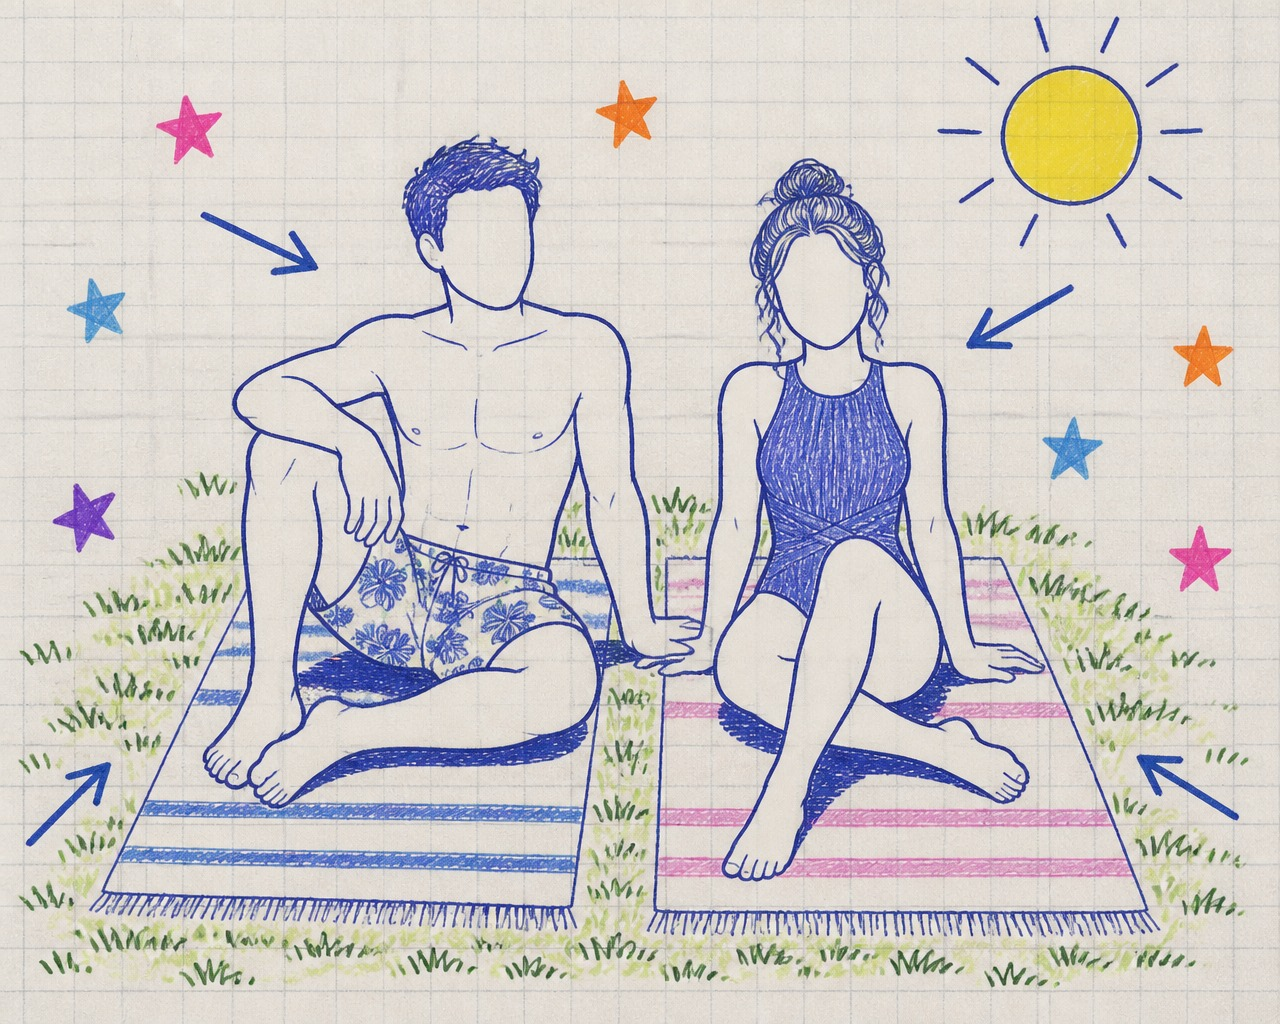
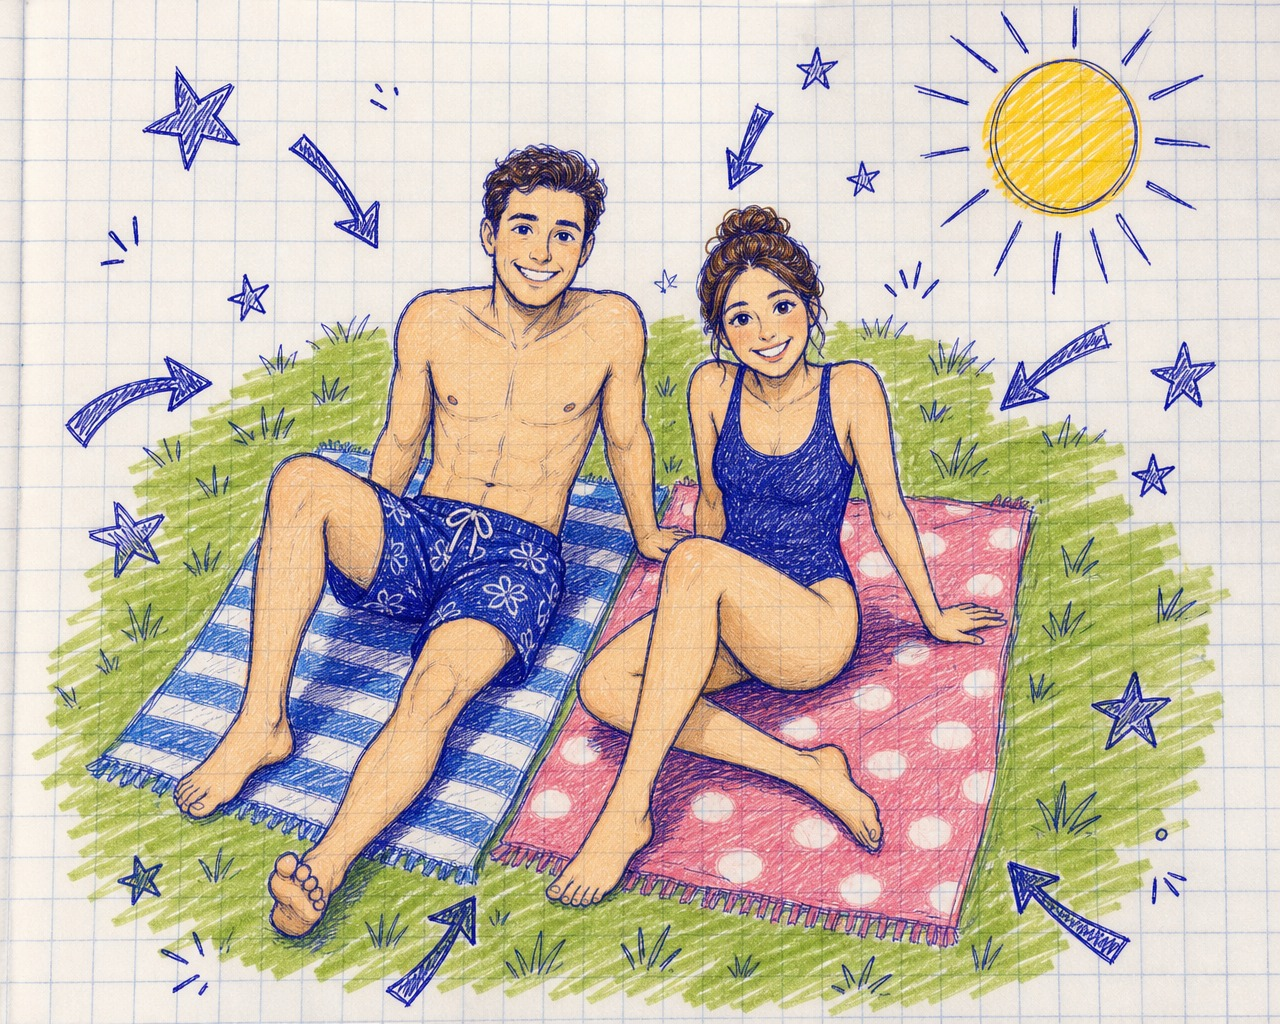
Schulprojekt Erklärvideo J: alle Figuren mit Gesicht (vier Bilder neu, Nutzernotiz), Vergleichsseite aktualisiert
Claude-Session: https://claude.ai/code/session_01LHRCLow2W6zBv92mtdrfKt

diff --git a/themen/schulprojekt-vitamin-d/erklaervideo/vorschau/index.html b/themen/schulprojekt-vitamin-d/erklaervideo/vorschau/index.html
@@ -37,49 +37,49 @@
 </style>
 <main>
   <h1>Vitamin D · Erklärvideo in acht Stilen · Vorschau</h1>
-  <p class="aufgabe"><b>Deine Aufgabe:</b> Neue Fassung mit geändertem Text, alle acht Stile. Oben deine Favoriten G und I. Bei deinem Favoriten „passt“, bei Fehlern „ändern“ mit Notiz. Ton kommt beim Antippen von ▶; nichts wird heruntergeladen.</p>
-  <article class="video" id="v1" data-id="v_b9dfe25a5a" data-titel="G  Aquarell und Tusche – neuer Text">
+  <p class="aufgabe"><b>Deine Aufgabe:</b> Oben J mit Gesichtern (nach deiner Notiz), darunter G und I und die übrigen Stile, alle mit neuem Text. Beim Favoriten „passt“, sonst „ändern“ mit Notiz. Ton kommt beim Antippen von ▶; nichts wird heruntergeladen.</p>
+  <article class="video" id="v1" data-id="v_028900bb2c" data-titel="J  Skizze im Schulheft – jetzt alle Figuren mit Gesicht">
+      <div class="kopfzeile"><h2>J  Skizze im Schulheft – jetzt alle Figuren mit Gesicht</h2><span class="marke pruefen">zu prüfen</span></div>
+      <p class="stand">Stand 05.11., 15:05 · 14.0 MB</p>
+      <video controls playsinline preload="metadata" poster="videos/v_028900bb2c.jpg" src="videos/v_028900bb2c.mp4"></video>
+      <p class="notiz">Nach deiner Notiz „Die Figuren sollten immer ein Gesicht haben“: vier Bilder neu – Sonnenbad (auch die Kachel im Einstieg), Winterstraße (Menschen kommen jetzt auf dich zu), Frau am Fenster (nicht mehr von hinten), Büro am Abend (sitzt aufrecht statt Kopf auf dem Tisch). Text wie bei den anderen Stilen (neu seit 05.11.).</p>
+      <div class="urteil"><button type="button" data-u="passt">✓ passt</button><button type="button" data-u="aendern">ändern</button></div><textarea rows="2" placeholder="Was soll anders werden?" aria-label="Notiz zu J  Skizze im Schulheft – jetzt alle Figuren mit Gesicht"></textarea><div class="zeile"><button type="button" class="senden">An Claude</button><span class="melde" role="status" aria-live="polite"></span></div>
+    </article><article class="video" id="v2" data-id="v_b9dfe25a5a" data-titel="G  Aquarell und Tusche – neuer Text">
       <div class="kopfzeile"><h2>G  Aquarell und Tusche – neuer Text</h2><span class="marke pruefen">zu prüfen</span></div>
       <p class="stand">Stand 05.11., 13:15 · 14.4 MB</p>
       <video controls playsinline preload="metadata" poster="videos/v_b9dfe25a5a.jpg" src="videos/v_b9dfe25a5a.mp4"></video>
       <p class="notiz">Neuer Text (05.11.): Kalzium-Satz eindeutig (0:36), Fisch-Tipp mit Quecksilber-Hinweis (0:51), „fast alle zwanzig Nanogramm, aber nur jeder Vierte zweiunddreißig“ (1:12), Winter „kein Vitamin D“ mit 45 Grad (1:32), Einheiten-Warnung „sonst hältst du einen Mangel fälschlich für einen guten Wert“ (2:14). 5:37, Ton 128 kbit/s direkt aus der Tonspur.</p>
       <div class="urteil"><button type="button" data-u="passt">✓ passt</button><button type="button" data-u="aendern">ändern</button></div><textarea rows="2" placeholder="Was soll anders werden?" aria-label="Notiz zu G  Aquarell und Tusche – neuer Text"></textarea><div class="zeile"><button type="button" class="senden">An Claude</button><span class="melde" role="status" aria-live="polite"></span></div>
-    </article><article class="video" id="v2" data-id="v_c209597929" data-titel="I  3D-Trickfilm – neuer Text">
+    </article><article class="video" id="v3" data-id="v_c209597929" data-titel="I  3D-Trickfilm – neuer Text">
       <div class="kopfzeile"><h2>I  3D-Trickfilm – neuer Text</h2><span class="marke pruefen">zu prüfen</span></div>
       <p class="stand">Stand 05.11., 13:15 · 10.8 MB</p>
       <video controls playsinline preload="metadata" poster="videos/v_c209597929.jpg" src="videos/v_c209597929.mp4"></video>
       <p class="notiz">Neuer Text (05.11.): Kalzium-Satz eindeutig (0:36), Fisch-Tipp mit Quecksilber-Hinweis (0:51), „fast alle zwanzig Nanogramm, aber nur jeder Vierte zweiunddreißig“ (1:12), Winter „kein Vitamin D“ mit 45 Grad (1:32), Einheiten-Warnung „sonst hältst du einen Mangel fälschlich für einen guten Wert“ (2:14). 5:37, Ton 128 kbit/s direkt aus der Tonspur.</p>
       <div class="urteil"><button type="button" data-u="passt">✓ passt</button><button type="button" data-u="aendern">ändern</button></div><textarea rows="2" placeholder="Was soll anders werden?" aria-label="Notiz zu I  3D-Trickfilm – neuer Text"></textarea><div class="zeile"><button type="button" class="senden">An Claude</button><span class="melde" role="status" aria-live="polite"></span></div>
-    </article><article class="video" id="v3" data-id="v_9366edbd1e" data-titel="C  Papierschnitt – neuer Text">
+    </article><article class="video" id="v4" data-id="v_9366edbd1e" data-titel="C  Papierschnitt – neuer Text">
       <div class="kopfzeile"><h2>C  Papierschnitt – neuer Text</h2><span class="marke pruefen">zu prüfen</span></div>
       <p class="stand">Stand 05.11., 13:15 · 11.9 MB</p>
       <video controls playsinline preload="metadata" poster="videos/v_9366edbd1e.jpg" src="videos/v_9366edbd1e.mp4"></video>
       <p class="notiz">Neuer Text (05.11.): Kalzium-Satz eindeutig (0:36), Fisch-Tipp mit Quecksilber-Hinweis (0:51), „fast alle zwanzig Nanogramm, aber nur jeder Vierte zweiunddreißig“ (1:12), Winter „kein Vitamin D“ mit 45 Grad (1:32), Einheiten-Warnung „sonst hältst du einen Mangel fälschlich für einen guten Wert“ (2:14). 5:37, Ton 128 kbit/s direkt aus der Tonspur.</p>
       <div class="urteil"><button type="button" data-u="passt">✓ passt</button><button type="button" data-u="aendern">ändern</button></div><textarea rows="2" placeholder="Was soll anders werden?" aria-label="Notiz zu C  Papierschnitt – neuer Text"></textarea><div class="zeile"><button type="button" class="senden">An Claude</button><span class="melde" role="status" aria-live="polite"></span></div>
-    </article><article class="video" id="v4" data-id="v_6ba186e9d1" data-titel="D  Knetfiguren – neuer Text">
+    </article><article class="video" id="v5" data-id="v_6ba186e9d1" data-titel="D  Knetfiguren – neuer Text">
       <div class="kopfzeile"><h2>D  Knetfiguren – neuer Text</h2><span class="marke pruefen">zu prüfen</span></div>
       <p class="stand">Stand 05.11., 13:15 · 10.6 MB</p>
       <video controls playsinline preload="metadata" poster="videos/v_6ba186e9d1.jpg" src="videos/v_6ba186e9d1.mp4"></video>
       <p class="notiz">Neuer Text (05.11.): Kalzium-Satz eindeutig (0:36), Fisch-Tipp mit Quecksilber-Hinweis (0:51), „fast alle zwanzig Nanogramm, aber nur jeder Vierte zweiunddreißig“ (1:12), Winter „kein Vitamin D“ mit 45 Grad (1:32), Einheiten-Warnung „sonst hältst du einen Mangel fälschlich für einen guten Wert“ (2:14). 5:37, Ton 128 kbit/s direkt aus der Tonspur.</p>
       <div class="urteil"><button type="button" data-u="passt">✓ passt</button><button type="button" data-u="aendern">ändern</button></div><textarea rows="2" placeholder="Was soll anders werden?" aria-label="Notiz zu D  Knetfiguren – neuer Text"></textarea><div class="zeile"><button type="button" class="senden">An Claude</button><span class="melde" role="status" aria-live="polite"></span></div>
-    </article><article class="video" id="v5" data-id="v_1d97426f7c" data-titel="E  Isometrische Miniaturwelt – neuer Text">
+    </article><article class="video" id="v6" data-id="v_1d97426f7c" data-titel="E  Isometrische Miniaturwelt – neuer Text">
       <div class="kopfzeile"><h2>E  Isometrische Miniaturwelt – neuer Text</h2><span class="marke pruefen">zu prüfen</span></div>
       <p class="stand">Stand 05.11., 13:15 · 10.3 MB</p>
       <video controls playsinline preload="metadata" poster="videos/v_1d97426f7c.jpg" src="videos/v_1d97426f7c.mp4"></video>
       <p class="notiz">Neuer Text (05.11.): Kalzium-Satz eindeutig (0:36), Fisch-Tipp mit Quecksilber-Hinweis (0:51), „fast alle zwanzig Nanogramm, aber nur jeder Vierte zweiunddreißig“ (1:12), Winter „kein Vitamin D“ mit 45 Grad (1:32), Einheiten-Warnung „sonst hältst du einen Mangel fälschlich für einen guten Wert“ (2:14). 5:37, Ton 128 kbit/s direkt aus der Tonspur.</p>
       <div class="urteil"><button type="button" data-u="passt">✓ passt</button><button type="button" data-u="aendern">ändern</button></div><textarea rows="2" placeholder="Was soll anders werden?" aria-label="Notiz zu E  Isometrische Miniaturwelt – neuer Text"></textarea><div class="zeile"><button type="button" class="senden">An Claude</button><span class="melde" role="status" aria-live="polite"></span></div>
-    </article><article class="video" id="v6" data-id="v_9c0ce27817" data-titel="H  Comic (Ligne claire) – neuer Text">
+    </article><article class="video" id="v7" data-id="v_9c0ce27817" data-titel="H  Comic (Ligne claire) – neuer Text">
       <div class="kopfzeile"><h2>H  Comic (Ligne claire) – neuer Text</h2><span class="marke pruefen">zu prüfen</span></div>
       <p class="stand">Stand 05.11., 13:15 · 12.5 MB</p>
       <video controls playsinline preload="metadata" poster="videos/v_9c0ce27817.jpg" src="videos/v_9c0ce27817.mp4"></video>
       <p class="notiz">Neuer Text (05.11.): Kalzium-Satz eindeutig (0:36), Fisch-Tipp mit Quecksilber-Hinweis (0:51), „fast alle zwanzig Nanogramm, aber nur jeder Vierte zweiunddreißig“ (1:12), Winter „kein Vitamin D“ mit 45 Grad (1:32), Einheiten-Warnung „sonst hältst du einen Mangel fälschlich für einen guten Wert“ (2:14). 5:37, Ton 128 kbit/s direkt aus der Tonspur.</p>
       <div class="urteil"><button type="button" data-u="passt">✓ passt</button><button type="button" data-u="aendern">ändern</button></div><textarea rows="2" placeholder="Was soll anders werden?" aria-label="Notiz zu H  Comic (Ligne claire) – neuer Text"></textarea><div class="zeile"><button type="button" class="senden">An Claude</button><span class="melde" role="status" aria-live="polite"></span></div>
-    </article><article class="video" id="v7" data-id="v_858223cdd8" data-titel="J  Skizze im Schulheft – neuer Text">
-      <div class="kopfzeile"><h2>J  Skizze im Schulheft – neuer Text</h2><span class="marke pruefen">zu prüfen</span></div>
-      <p class="stand">Stand 05.11., 13:15 · 12.9 MB</p>
-      <video controls playsinline preload="metadata" poster="videos/v_858223cdd8.jpg" src="videos/v_858223cdd8.mp4"></video>
-      <p class="notiz">Neuer Text (05.11.): Kalzium-Satz eindeutig (0:36), Fisch-Tipp mit Quecksilber-Hinweis (0:51), „fast alle zwanzig Nanogramm, aber nur jeder Vierte zweiunddreißig“ (1:12), Winter „kein Vitamin D“ mit 45 Grad (1:32), Einheiten-Warnung „sonst hältst du einen Mangel fälschlich für einen guten Wert“ (2:14). 5:37, Ton 128 kbit/s direkt aus der Tonspur.</p>
-      <div class="urteil"><button type="button" data-u="passt">✓ passt</button><button type="button" data-u="aendern">ändern</button></div><textarea rows="2" placeholder="Was soll anders werden?" aria-label="Notiz zu J  Skizze im Schulheft – neuer Text"></textarea><div class="zeile"><button type="button" class="senden">An Claude</button><span class="melde" role="status" aria-live="polite"></span></div>
     </article><article class="video" id="v8" data-id="v_2d5625eef0" data-titel="L  Pixel-Art – neuer Text">
       <div class="kopfzeile"><h2>L  Pixel-Art – neuer Text</h2><span class="marke pruefen">zu prüfen</span></div>
       <p class="stand">Stand 05.11., 13:15 · 12.0 MB</p>

diff --git a/themen/schulprojekt-vitamin-d/erklaervideo/gesichter_J.py b/themen/schulprojekt-vitamin-d/erklaervideo/gesichter_J.py
@@ -1,0 +1,32 @@
+"""Nutzerwunsch 05.11.: Figuren immer mit Gesicht. Vier J-Bilder neu (alte als *_ohne_gesicht.jpg aufbewahrt)."""
+import os, json
+from concurrent.futures import ThreadPoolExecutor
+import bilder_bau as BB
+from bilder_v2 import SZENE, FORMAT, GROESSE
+
+GESICHT = (' Every person shows a clearly drawn friendly face with eyes, nose and mouth, facing the viewer or in three-quarter view;'
+           ' no blank or featureless faces, nobody seen only from behind, no face hidden.')
+NEU = {
+ 'v2a': SZENE['v2a'][0] + ', both smiling towards the viewer',
+ 'v5g': 'a person standing by a window in winter, turned three-quarters towards the viewer so the friendly face is clearly visible, holding a warm cup, a pale low sun outside over snowy roofs',
+ 'v6c': 'an office worker sitting upright at a desk under artificial lamp light in the late evening, the window dark, looking a bit tired but friendly towards the viewer',
+ 'v2d': 'a town street in winter, a low pale sun just above the rooftops, very long shadows on the snow, a few people in thick coats, scarves and hats walking towards the viewer with friendly visible faces',
+}
+
+def eins(key):
+    ziel = f'bilder/J/{key}.jpg'
+    alt = f'bilder/J/{key}_ohne_gesicht.jpg'
+    if os.path.exists(ziel) and not os.path.exists(alt):
+        os.rename(ziel, alt)
+    regel = SZENE[key][1]
+    return key, BB.erzeuge(BB.STILE['J'] + FORMAT + regel + GESICHT, NEU[key], ziel, config=GROESSE['szene'])
+
+if __name__ == '__main__':
+    with ThreadPoolExecutor(4) as ex:
+        erg = list(ex.map(eins, NEU))
+    kosten = json.load(open('bilder_kosten.json'))
+    for k, c in erg:
+        kosten[f'J/{k} (Gesicht 05.11.)'] = round(c, 1)
+        print(k, round(c, 1), 'Credits')
+    json.dump(kosten, open('bilder_kosten.json', 'w'), indent=1, sort_keys=True)
+    print('Summe', round(sum(c for _, c in erg), 1))

diff --git a/themen/schulprojekt-vitamin-d/erklaervideo/LIESMICH.md b/themen/schulprojekt-vitamin-d/erklaervideo/LIESMICH.md
@@ -27,3 +27,4 @@ Format: Erklärvideo ohne Faktencheck-Ampel (Schulprojekt), Gliederung nach dem 
 - Neuer Ton für v1–v3 (952 Zeichen berechnet), 5:28, 779 Wörter. G und I neu gerendert, 720p/24 fps mit AAC 160 kbit/s an den Nutzer. Die anderen sechs Stile sind noch auf dem alten Text, neu rendern kostet keinen Ton.
 - 05.11. mittags, zweite Runde: v2 nennt die Werte („fast alle 20 ng/ml, aber nur jeder Vierte 32“, Rhodes 2010). v1-Tipp mit Quecksilber-Hinweis: „Hering oder Lachs ein- bis zweimal pro Woche … Große Raubfische wie Hai oder Schwertfisch meidest du besser“, Quelle BfR 047/2023 (Hering 0,036, Hai 0,71, Schwertfisch 0,66 mg/kg Quecksilber im Mittel). 5:37, 794 Wörter. G und I neu gerendert.
 - 05.11., 14:30: Alle acht Stile mit neuem Text neu gerendert, Vergleichsseite ausgetauscht (gleiche URL, G und I oben; 720p/12 fps, Ton AAC 128 kbit/s direkt aus der WAV, je 10–14 MB). Grund: Der Nutzer hatte auf der Vergleichsseite noch die alten Fassungen vom 03.11. gehört. `vorschau.json` verweist jetzt auf lokale Dateien `vorschau_neu_<Stil>.mp4` (nicht eingecheckt, aus Drehbuch und tts_cache neu baubar).
+- 05.11., 15:05: Nutzernotiz zu J „Die Figuren sollten immer ein Gesicht haben“ → `gesichter_J.py`: v2a (Sonnenbad, auch Kachel), v2d (Winterstraße), v5g (Frau am Fenster), v6c (Büro) mit sichtbaren Gesichtern neu, 136,8 Credits; alte Bilder als `*_ohne_gesicht.jpg`. J neu gerendert, Vergleichsseite aktualisiert. Offen: Rückenansichten auch in C, G, H, L (Fenster, Winterstraße).
